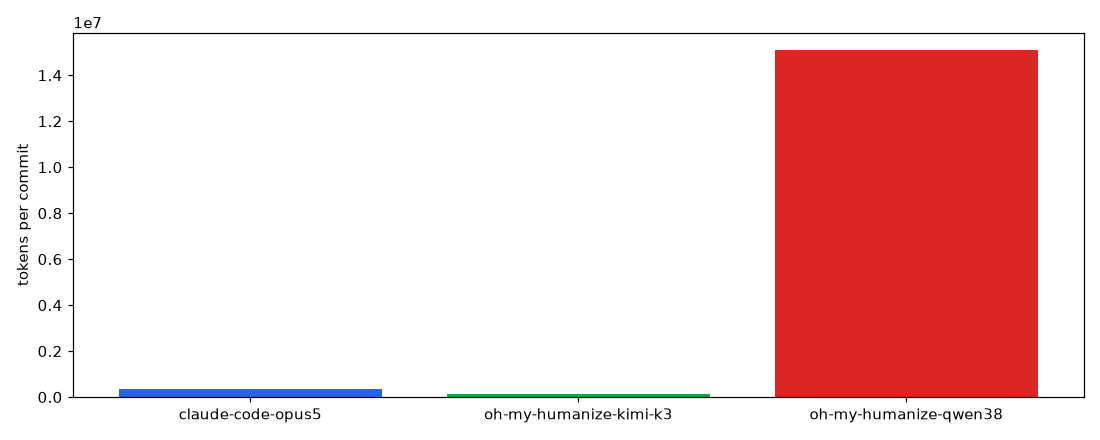
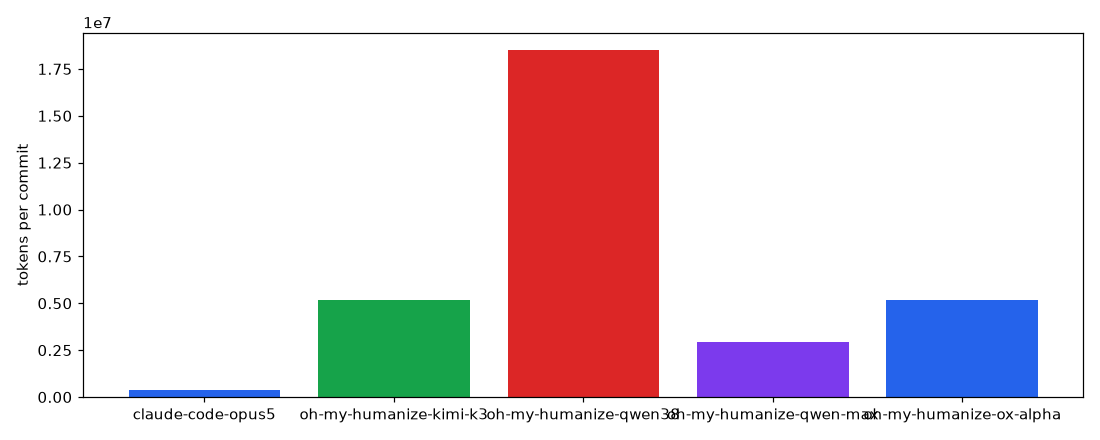
fix: restore gitignore for nested repos, update analysis

diff --git a/analysis/summary.md b/analysis/summary.md
@@ -3,8 +3,10 @@
 | run | duration | api calls | in | out | cached | cache ratio | tokens/s | cost | tokens/commit | tokens/line | tool calls | tool err% | tool avg ms |
 |---|---|---|---|---|---|---|---|---|---|---|---|---|---|
 | claude-code-opus5 | 0h55m22s | 102 | 221,730 | 147,838 | 15,062,878 | 98.5% | 4645.5 | n/a | - | - | 31 | 0.0% | 0 |
-| oh-my-humanize-kimi-k3 | 0h30m35s | 85 | 89,226 | 34,379 | 3,730,176 | 97.7% | 2100.2 | $1.8073 | - | - | 84 | 10.7% | 147 |
-| oh-my-humanize-qwen38 | 3h05m40s | 470 | 14,508,063 | 589,848 | 58,006,080 | 80.0% | 6562.3 | $13.7808 | - | - | 486 | 7.2% | 191 |
+| oh-my-humanize-kimi-k3 | 0h30m41s | 645 | 4,498,603 | 693,431 | 95,129,488 | 95.5% | 54493.0 | $20.8890 | - | - | 709 | 7.8% | 510 |
+| oh-my-humanize-qwen38 | 3h05m40s | 843 | 17,558,132 | 950,156 | 111,485,952 | 86.4% | 11669.1 | $28.5198 | - | - | 910 | 8.0% | 438 |
+| oh-my-humanize-qwen-max | 3h44m25s | 169 | 2,682,280 | 238,505 | 30,141,440 | 91.8% | 2455.4 | $14.3309 | - | - | 197 | 7.6% | 604 |
+| oh-my-humanize-ox-alpha | 1h38m15s | 645 | 4,498,603 | 693,431 | 95,129,488 | 95.5% | 17018.1 | n/a | - | - | 709 | 7.8% | 510 |
 
 ## Plots
 ### tokens over time
@@ -20,5 +22,7 @@
 
 ## Per-run insights
 - **claude-code-opus5**: 0h55m22s, 102 calls, 15,432,446 tokens (98.5% cached), 0 commits, 0 lines, 15,432,446 tok/commit, 15,432,446 tok/line
-- **oh-my-humanize-kimi-k3**: 0h30m35s, 85 calls, 3,853,781 tokens (97.7% cached), 0 commits, 0 lines, 3,853,781 tok/commit, 3,853,781 tok/line, $1.8073
-- **oh-my-humanize-qwen38**: 3h05m40s, 470 calls, 73,103,991 tokens (80.0% cached), 0 commits, 0 lines, 73,103,991 tok/commit, 73,103,991 tok/line, $13.7808
+- **oh-my-humanize-kimi-k3**: 0h30m41s, 645 calls, 100,321,522 tokens (95.5% cached), 0 commits, 0 lines, 100,321,522 tok/commit, 100,321,522 tok/line, $20.8890
+- **oh-my-humanize-qwen38**: 3h05m40s, 843 calls, 129,994,240 tokens (86.4% cached), 0 commits, 0 lines, 129,994,240 tok/commit, 129,994,240 tok/line, $28.5198
+- **oh-my-humanize-qwen-max**: 3h44m25s, 169 calls, 33,062,225 tokens (91.8% cached), 0 commits, 0 lines, 33,062,225 tok/commit, 33,062,225 tok/line, $14.3309
+- **oh-my-humanize-ox-alpha**: 1h38m15s, 645 calls, 100,321,522 tokens (95.5% cached), 0 commits, 0 lines, 100,321,522 tok/commit, 100,321,522 tok/line
